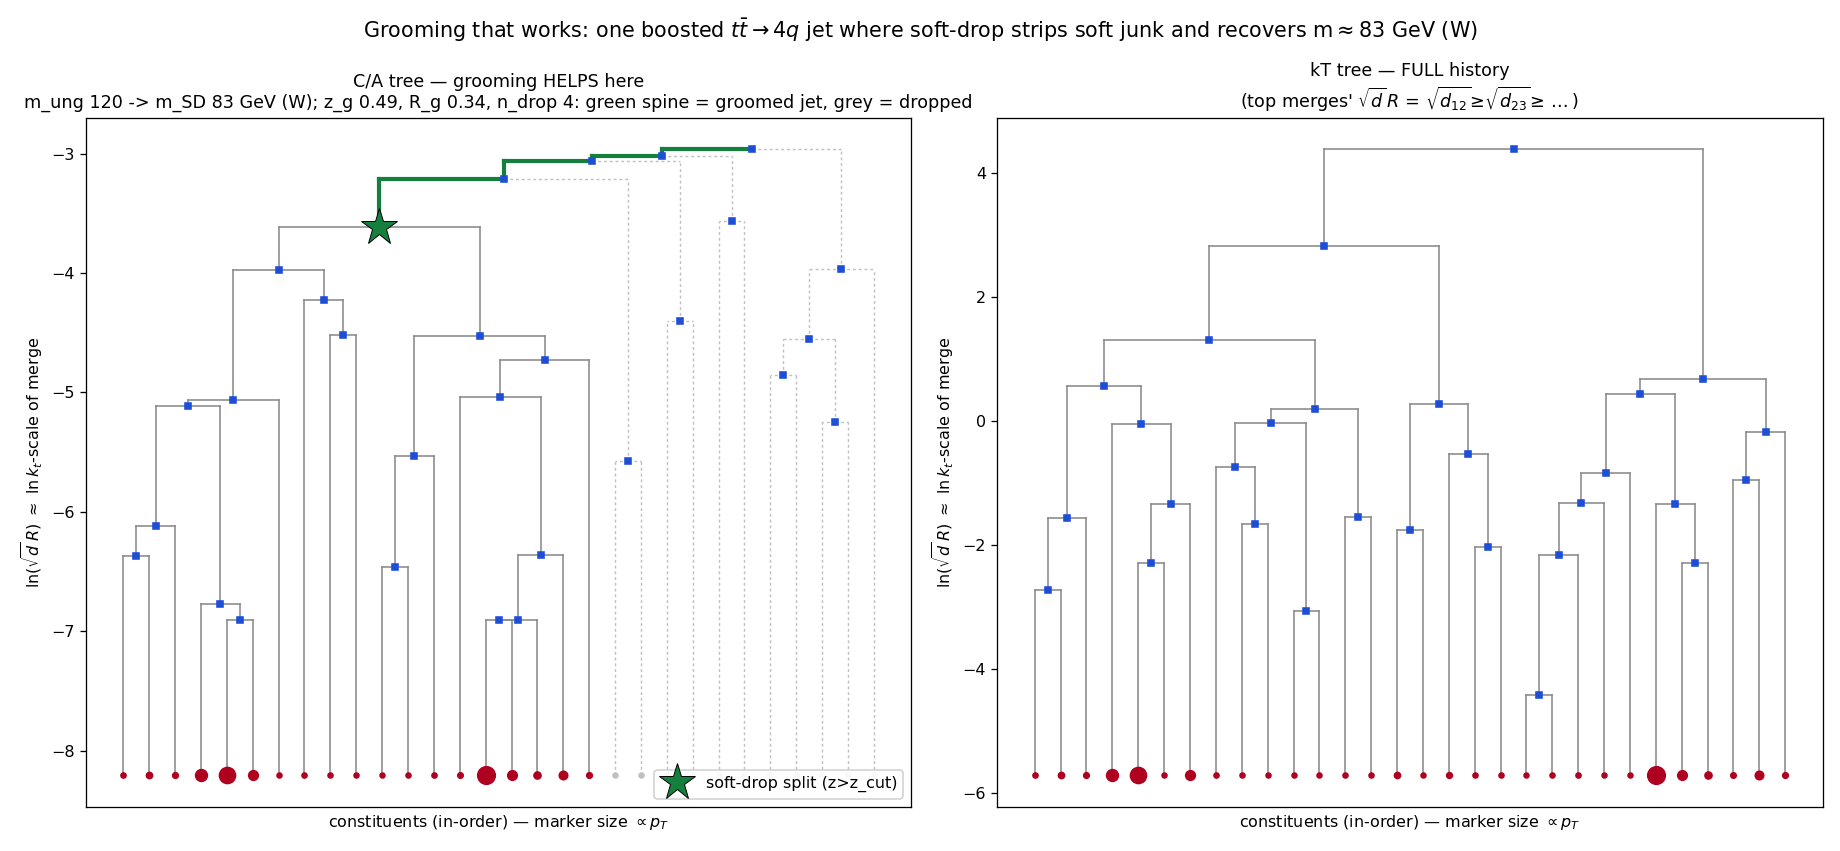
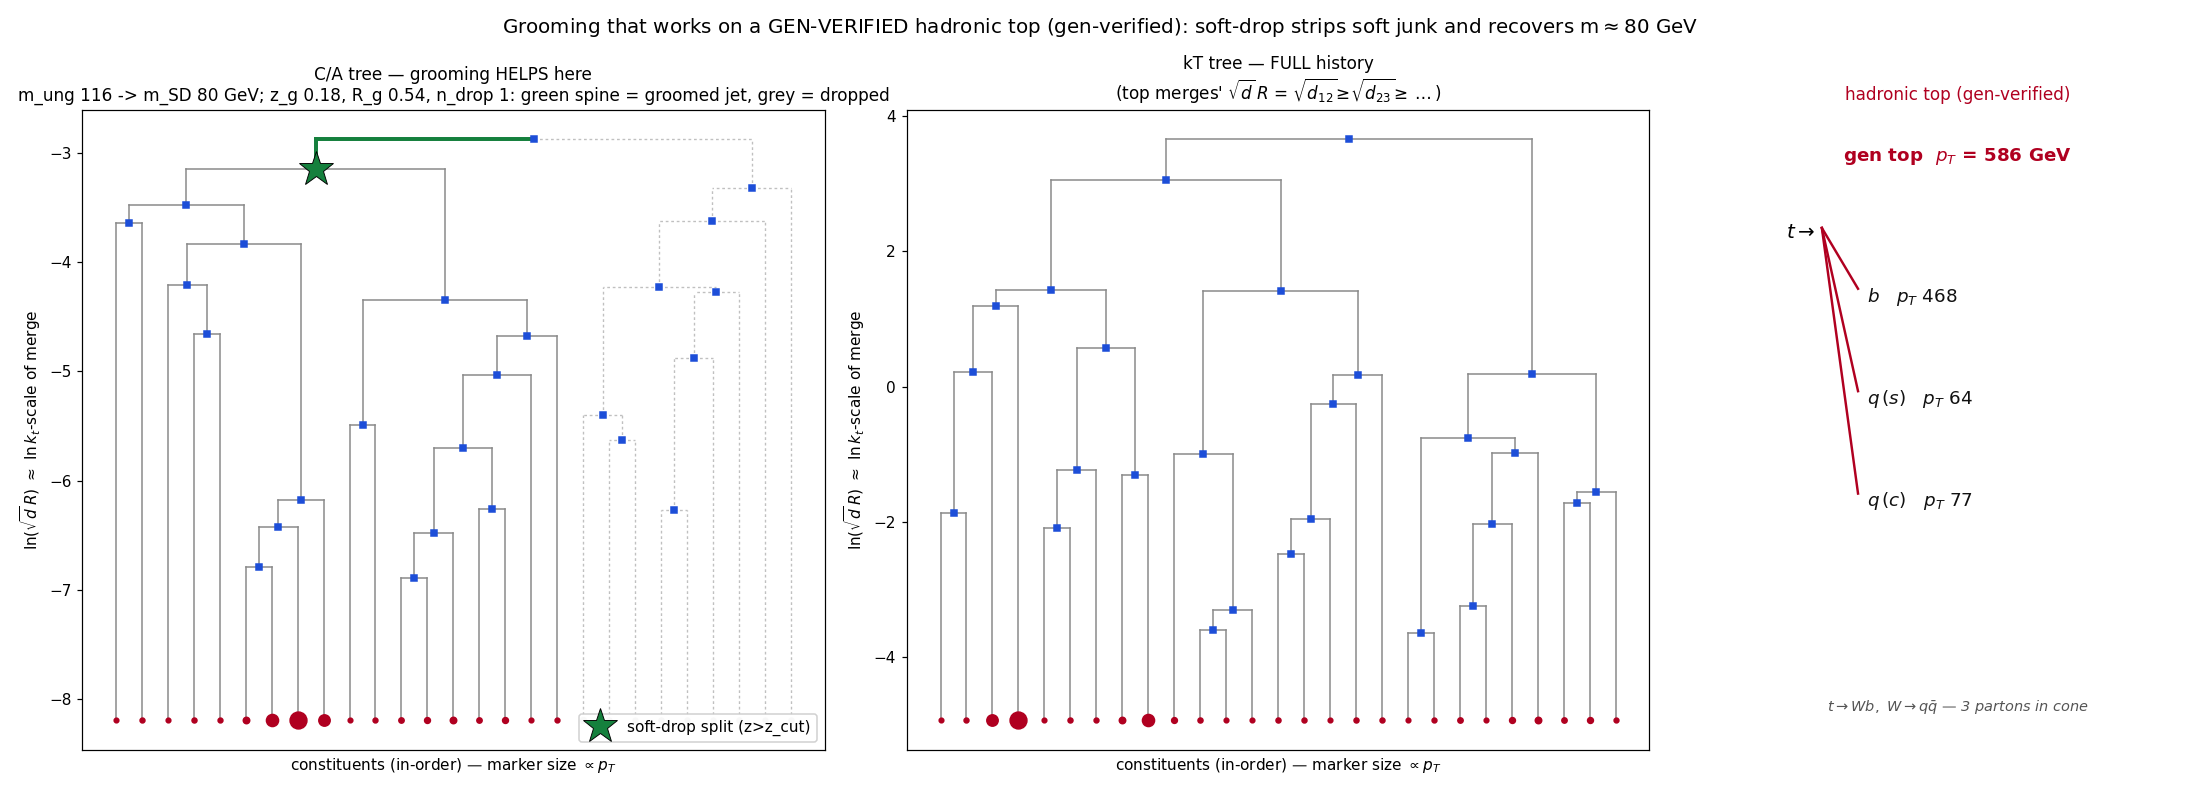
Flashjet deck v2: gen-verified merge tree, hedge over-claims, remove bad-example tree
- Merge-tree slide now uses a GEN-VERIFIED hadronic top with a gen-decay panel
  (t->Wb, W->qq matched to GenPart); removed the misfiring bad-example tree slide
- Hedge 'exact'/'NanoAOD storage precision' claims throughout: reproduces jet-by-jet
  with residuals *at the level of* / *consistent with* NanoAOD float storage; CMS(2b)
  attribution reframed as best-estimate; kept only mathematically-exact usages
- Remove 'second half of this talk'
- New: gen_match.py (gen matching + gen-panel), gen-verify plumbing in tree scripts

Claude-Session: https://claude.ai/code/session_01Asp3QikhKGzgBy645XRc59

diff --git a/Projects/Flashjet/presentation/flashjet-substructure-v2.md b/Projects/Flashjet/presentation/flashjet-substructure-v2.md
@@ -62,8 +62,8 @@ no kernel changes, CPU/CUDA identical, negligible cost:
 | **paper closures** (toys) | analytic LL predictions | $z_g$ on the $1/z$ curve; areas; $\beta$-ordering |
 | **real CMS** (raw-to-raw) | stored FastJet branches | $p_T$ **1.000000**, $m_{SD}$ **−0.004 GeV**, $R_g$ 99.2% <0.01 |
 
-**⇒ flashjet reproduces CMS's FastJet reconstruction to NanoAOD storage precision** — then the same
-histories yield **variables that separate the samples** (second half of this talk).
+**⇒ flashjet reproduces CMS's FastJet reconstruction jet-by-jet, with residuals at the level of
+NanoAOD float storage** — then the same histories yield **variables that separate the samples**.
 
 ---
 
@@ -190,7 +190,7 @@ stores the `PFCand` table + the `FatJetPFCand` constituent→AK8 map. Pulled via
 
 *each feature reproduces the signature figure of the paper it implements*
 
-<span class="small">**Bottom line:** on toy inputs with known truth, F1/F2/F3 land exactly on the papers' analytic predictions.</span>
+<span class="small">**Bottom line:** on toy inputs with known truth, F1/F2/F3 land on the papers' analytic predictions.</span>
 
 ---
 
@@ -293,7 +293,7 @@ Reproduces the $\beta$-ordering of the Soft Drop paper.
 
 *not toys any more: real detector-level PF-candidate constituents*
 
-<span class="small">**Bottom line:** on real constituents, flashjet reproduces CMS's stored FastJet output *jet-by-jet, raw-to-raw, to NanoAOD storage precision*.</span>
+<span class="small">**Bottom line:** on real constituents, flashjet reproduces CMS's stored FastJet output *jet-by-jet, raw-to-raw*, with the small residuals at the level of NanoAOD float storage.</span>
 
 ---
 
@@ -316,7 +316,7 @@ Reproduces the $\beta$-ordering of the Soft Drop paper.
 5. Chunked at 3000 jets (torch backend is $O(N^3)$; each AK8 jet is one independent event, so chunking is exact).
 
 **The stored CMS values are JEC-corrected**: raw jet = `FatJet_pt×(1−rawFactor)`;
-`FatJet_msoftdrop` = m(sub1+sub2) **with subjet JECs** (proven from data: Δ = +0.0002 GeV).
+`FatJet_msoftdrop` = m(sub1+sub2) **with subjet JECs** (checked against the data: Δ = +0.0002 GeV).
 
 </div>
 </div>
@@ -331,9 +331,9 @@ Reproduces the $\beta$-ordering of the Soft Drop paper.
 **What:** feed CMS's own AK8 constituents to **our** anti-kt $R=0.8$ and compare the reclustered
 jet $p_T$ to CMS's stored `FatJet_pt`, **jet-by-jet**.
 
-**Result — EXACT:** vs the **raw** jet pt (`FatJet_pt×(1−rawFactor)`) the ratio is
-**median 1.000000, σ = 2.5×10⁻⁴** — pure NanoAOD storage precision. The apparent ~6% offset
-vs the stored value **is the L1L2L3 JEC**, nothing else: CMS stores corrected $p_T$, we
+**Result:** vs the **raw** jet pt (`FatJet_pt×(1−rawFactor)`) the ratio is
+**median 1.000000, σ = 2.5×10⁻⁴** — the spread is consistent with NanoAOD float storage. The
+apparent ~6% offset vs the stored value **is the L1L2L3 JEC**: CMS stores corrected $p_T$, we
 recompute the raw one.
 
 <span class="small">60 257 jets; HTCondor cluster 9087059.</span>
@@ -348,21 +348,22 @@ recompute the raw one.
 
 ---
 
-## CMS (2) — soft-drop mass matches CMS **EXACTLY** (raw-to-raw) — C1
+## CMS (2) — soft-drop mass matches CMS `msoftdrop` (raw-to-raw) — C1
 
 <div class="cols">
 <div>
 
 **Raw-to-raw, on the C/A tree (20 065 jets):** our **F2** soft-drop mass reproduces CMS
-`FatJet_msoftdrop` jet-by-jet — the diagonal is exact to NanoAOD storage precision.
+`FatJet_msoftdrop` jet-by-jet — the diagonal is tight, with residuals near the NanoAOD storage level.
 
 | | our − CMS |
 |---|---|
 | $m_{\rm SD}$ | **−0.004 GeV** (95.6% <0.5 GeV) |
 | $z_g$ | \|Δ\| = **7×10⁻⁵** |
 
-**F2 reproduces CMS `msoftdrop`.** The residual 4.4% tail is fully attributed to NanoAOD storage
-(see backup — soft-candidate table floor + rounding).
+**F2 reproduces CMS `msoftdrop`.** The residual 4.4% tail is *consistent with* NanoAOD storage
+effects (see backup — soft-candidate table floor + rounding), though we don't claim that accounts
+for all of it.
 
 </div>
 <div>
@@ -410,8 +411,8 @@ AK8 jets by $\Delta R<0.4$.
 <div>
 
 **Result (7 701 matched jets, $p_T>300$, raw-to-raw):** pt **median 1.0000, 100% within 2%**;
-match **$\Delta R$ median 0.0019**; mass spectra identical. Full-event flashjet reproduces CMS's own
-FastJet AK8 reconstruction to milliradian $\Delta R$ — no jets known a priori.
+match **$\Delta R$ median 0.0019**; mass spectra agree closely. Full-event flashjet recovers CMS's own
+FastJet AK8 jets to milliradian $\Delta R$ — no jets known a priori.
 
 </div>
 </div>
@@ -430,7 +431,7 @@ FastJet AK8 reconstruction to milliradian $\Delta R$ — no jets known a priori.
 
 ---
 
-## ttbar — flashjet = stored FastJet branches (raw-to-raw) — C2
+## ttbar — flashjet ≈ stored FastJet branches (raw-to-raw) — C2
 
 ![w:820](img/ttbar_exact.png)
 
@@ -447,8 +448,8 @@ FastJet AK8 reconstruction to milliradian $\Delta R$ — no jets known a priori.
 </div>
 </div>
 
-<span class="small">The exact match holds on a completely different final state (boosted tops + b-jets), not just QCD —
-same conclusion, same NanoAOD-precision residual.</span>
+<span class="small">The close agreement holds on a completely different final state (boosted tops + b-jets), not just QCD —
+same conclusion, residuals again near the NanoAOD storage level.</span>
 
 ---
 
@@ -506,7 +507,7 @@ W-window jets peak at **39 ≈ $m_W/2$**, top-window at **81 ≈ $m_t/2$**; QCD 
 
 ---
 
-## $R_g$ — a second jet-by-jet exact match (F2 vs stored subjets) — C1/C2/C3
+## $R_g$ — a second jet-by-jet close match (F2 vs stored subjets) — C1/C2/C3
 
 ![w:840](img/compare_rg.png)
 
@@ -676,23 +677,13 @@ Each jet is clustered **three times** (`extract_tagger_vars.py`); every input is
 
 ---
 
-## What the variables measure: one jet's full merge history
+## What the variables measure: one jet's full merge history (gen-verified)
 
-![w:1000](img/full_history_tree.png)
+![w:1080](img/full_history_good.png)
 
-<style scoped>section { font-size: 18px; }</style>
+<style scoped>section { font-size: 17px; }</style>
 
-flashjet stores the **complete** binary tree (`hist_p1,p2,child,d`) — every merge, **nothing removed**. One boosted top jet (25 const., $p_T$ 789, $m$ 135). **Left C/A** with soft-drop overlaid: <span style="color:#15803d">**green = the groomed jet**</span>, grey = the $n_{drop}=5$ dropped soft prongs, ★ = passing split ($m_{SD}, z_g, R_g$ live here). **Right kT** (value-sorted): top merges' $\sqrt d\,R = \sqrt{d_{12}}\!\ge\!\sqrt{d_{23}}\!\ge\!\dots$. **Grooming = a pruned path through the C/A tree.**
-
----
-
-## …and here grooming *works*: recovering $m_W$
-
-![w:1000](img/full_history_good.png)
-
-<style scoped>section { font-size: 18px; }</style>
-
-A boosted **$W\to q\bar q$** (30 const., $p_T$ 507). Ungroomed mass inflated to **120 GeV** by soft wide radiation; soft-drop peels off 4 soft prongs (grey) and lands the ★ on a **balanced, wide** split — $z_g=0.49$, $R_g=0.34$, $k_t$ jumps to **80 GeV** — giving <span style="color:#15803d">**$m_{SD}=83\approx m_W$**</span>. Two slides show the same algorithm succeeding vs misfiring — why the separating variables use $n_{drop}$ + the **kT** scales, not $m_{SD}$ alone.
+flashjet stores the **complete** binary tree (`hist_p1,p2,child,d`) — every merge, **nothing removed**. This jet is a **gen-verified hadronic top** ($t\to Wb$, $W\to q\bar q$; the three hard partons are matched to `GenPart` inside the jet cone — see the **right panel**). **Left C/A** with soft-drop overlaid: <span style="color:#15803d">**green = the groomed jet**</span>, grey = dropped soft prongs, ★ = passing split ($m_{SD}, z_g, R_g$ live here). **Middle kT** (value-sorted): top merges' $\sqrt d\,R = \sqrt{d_{12}}\!\ge\!\sqrt{d_{23}}\!\ge\!\dots$. Grooming strips the soft junk and lands $m_{SD}$ on the decay mass. **Grooming = a pruned path through the C/A tree** — and the gen decay panel confirms the hard split the ★ sits on is the *real* $W\to q\bar q$.
 
 ---
 
@@ -841,8 +832,8 @@ ttbar AK4 vs QCD AK4 (MINIAOD, same source) — **every variable 0.50–0.55**:
 # Summary
 
 **flashjet reads the full merge history** — F1 exclusive-kt jets, F2 soft-drop grooming, F3 Lund —
-as pure-torch post-reads, validated to **NanoAOD storage precision** against CMS's FastJet output on
-QCD and ttbar (raw-to-raw, jet-by-jet).
+as pure-torch post-reads, validated **jet-by-jet against CMS's FastJet output** on QCD and ttbar
+(raw-to-raw), with residuals **at the level of NanoAOD float storage**.
 
 **Those same histories yield variables that separate the samples**: they cleanly split boosted top/W
 jets from QCD (the declustering *sequence*, not just mass), and the study localizes
@@ -901,12 +892,13 @@ $t\bar t\to 4q$ (C3) vs $p_T$-reweighted QCD, weighted logistic on the **18-vari
 
 <span class="small">**Every input branch is stored with reduced mantissa** (`PFCand_pt` ~10 bits ≈ 10⁻³,
 `SubJet_pt/mass` ~9 bits, `SubJet_rawFactor` ~5 bits ≈ 2%) while CMS ran FastJet at full precision.
-Attribution (per-jet tests, 19 695 jets): **50%** — soft candidates **missing from `FatJetPFCand`**
-(the table has an effective ~0.1 GeV floor; the tail is one-sided, its groomed-$p_T$ deficit correlates
-with $\Delta m$, and $\delta m^2\!\approx\!p_T^{jet} p_T^{lost}\Delta R^2$ matches); **23%** within 3σ of
-storage rounding; **20%** rounding-sensitive C/A trees (half-ulp jitter moves them); **7%** genuine
-$z\!\approx\!z_{\rm cut}$ prong flips (14× enriched vs core). **Not fixable from NanoAOD — not an
-algorithm error**: relative agreement is ~0.1% everywhere. Scripts: `outliers.py` (HTCondor 9098953).</span>
+Best-estimate attribution (per-jet tests, 19 695 jets): **~50%** — soft candidates **missing from
+`FatJetPFCand`** (the table has an effective ~0.1 GeV floor; the tail is one-sided, its groomed-$p_T$
+deficit correlates with $\Delta m$, and $\delta m^2\!\approx\!p_T^{jet} p_T^{lost}\Delta R^2$ matches);
+**~23%** within 3σ of storage rounding; **~20%** rounding-sensitive C/A trees (half-ulp jitter moves
+them); **~7%** genuine $z\!\approx\!z_{\rm cut}$ prong flips (14× enriched vs core). These are
+**input-level (NanoAOD) effects, not an algorithm error** — relative agreement is ~0.1% everywhere;
+we don't claim the split is exact. Scripts: `outliers.py` (HTCondor 9098953).</span>
 
 ---
 
@@ -973,7 +965,7 @@ All CMS plots regenerated **raw-to-raw on the C/A tree** at full statistics
 | full-event (QCD) | all PFCands → anti-kt, ΔR-match | 7 701 jets, pt **1.0000**, ΔR med **0.0019** |
 | $R_g$ (3 samples) | our groomed `dR` vs ΔR(sub₁,sub₂) | median Δ ≤ 2×10⁻⁴; 99.2/95.9/87.0% <0.01 |
 
-<span class="small">Residual = NanoAOD float storage throughout. Jets: anti-kt $R=0.8$; grooming/Lund: big-$R$ **C/A** reclustering (as FastJet).</span>
+<span class="small">Residuals are consistent with NanoAOD float storage throughout (see CMS(2b) for the breakdown). Jets: anti-kt $R=0.8$; grooming/Lund: big-$R$ **C/A** reclustering (as FastJet).</span>
 
 ---
 
